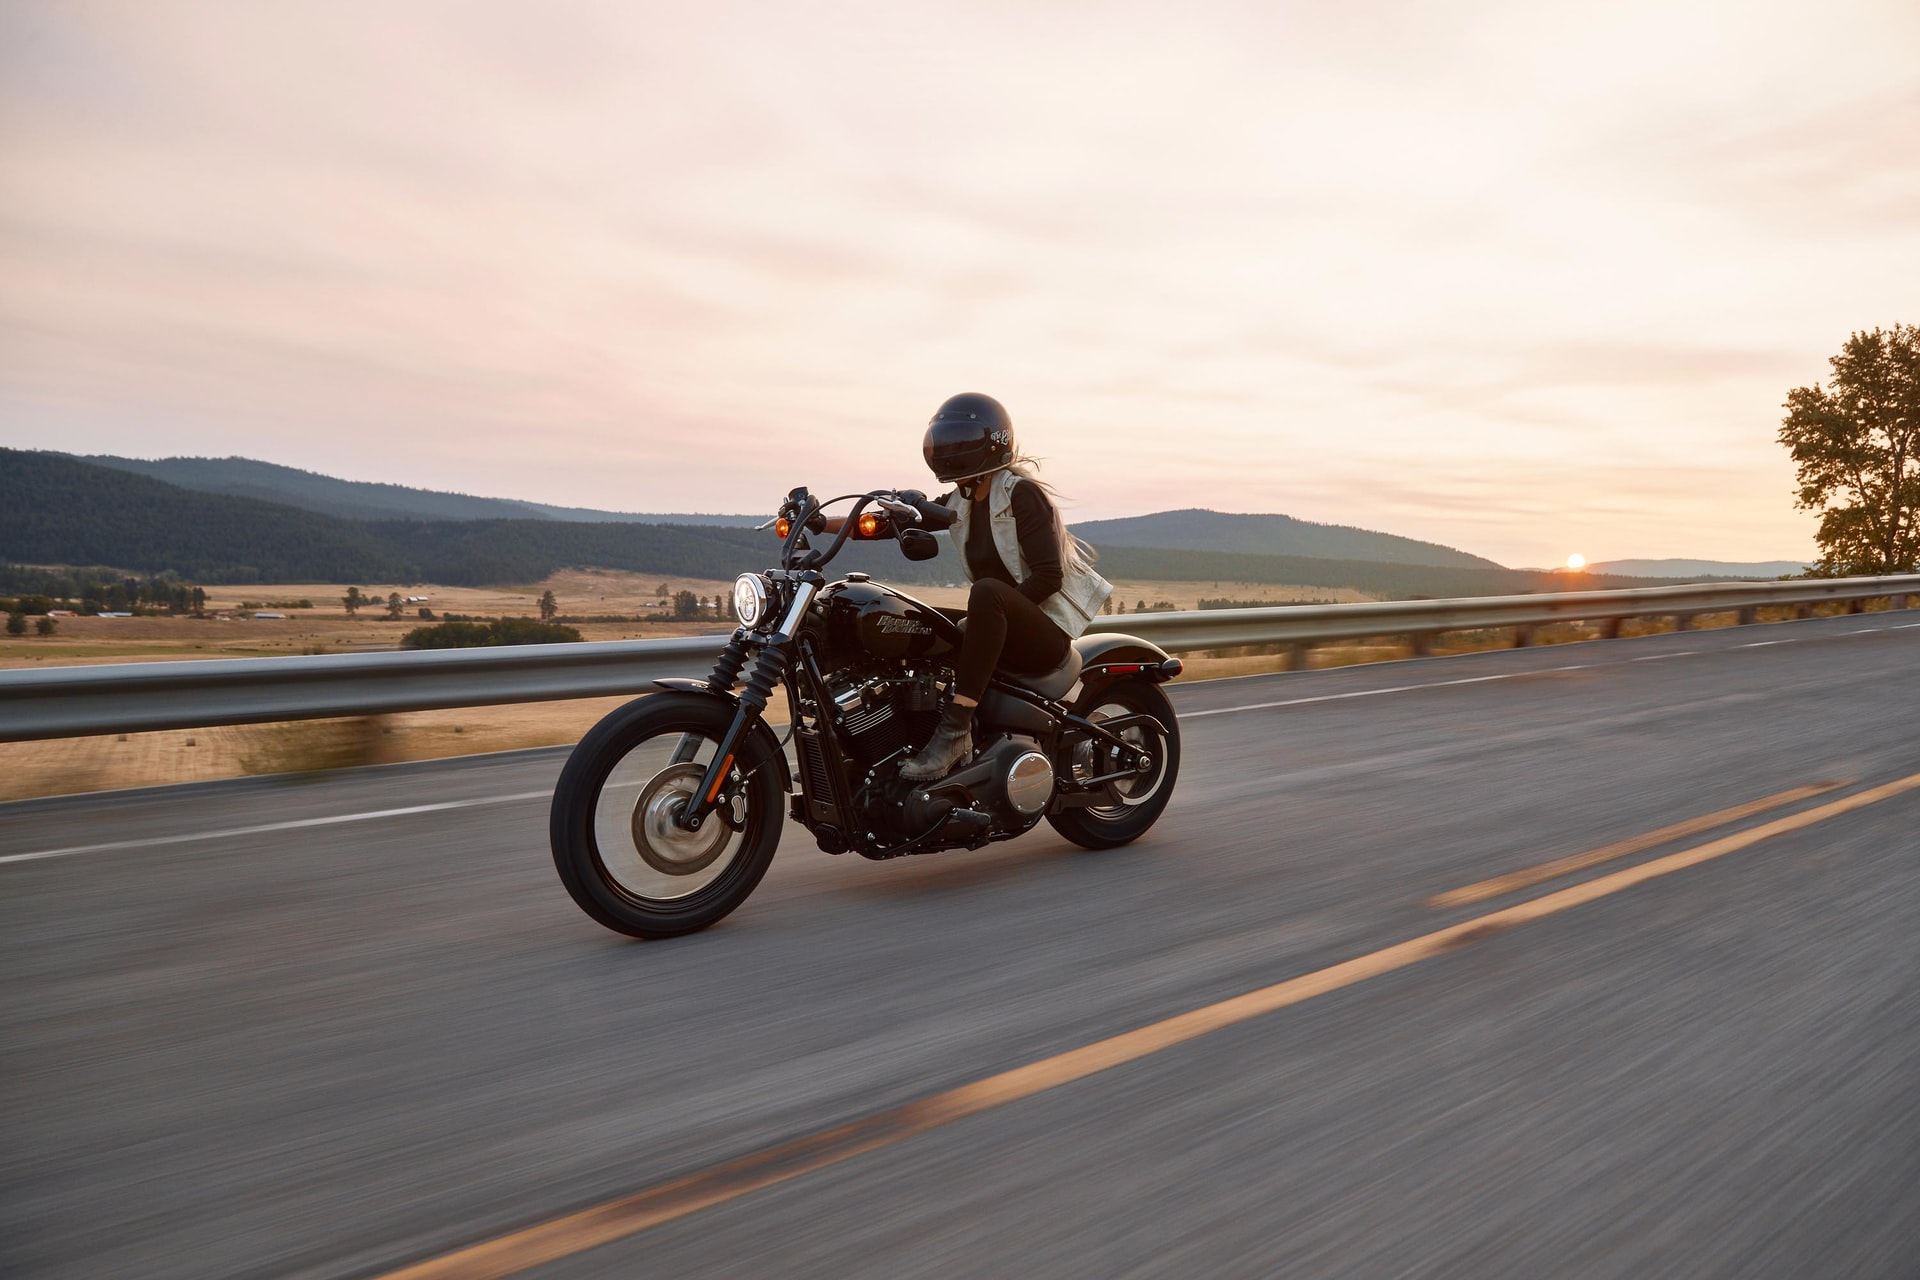
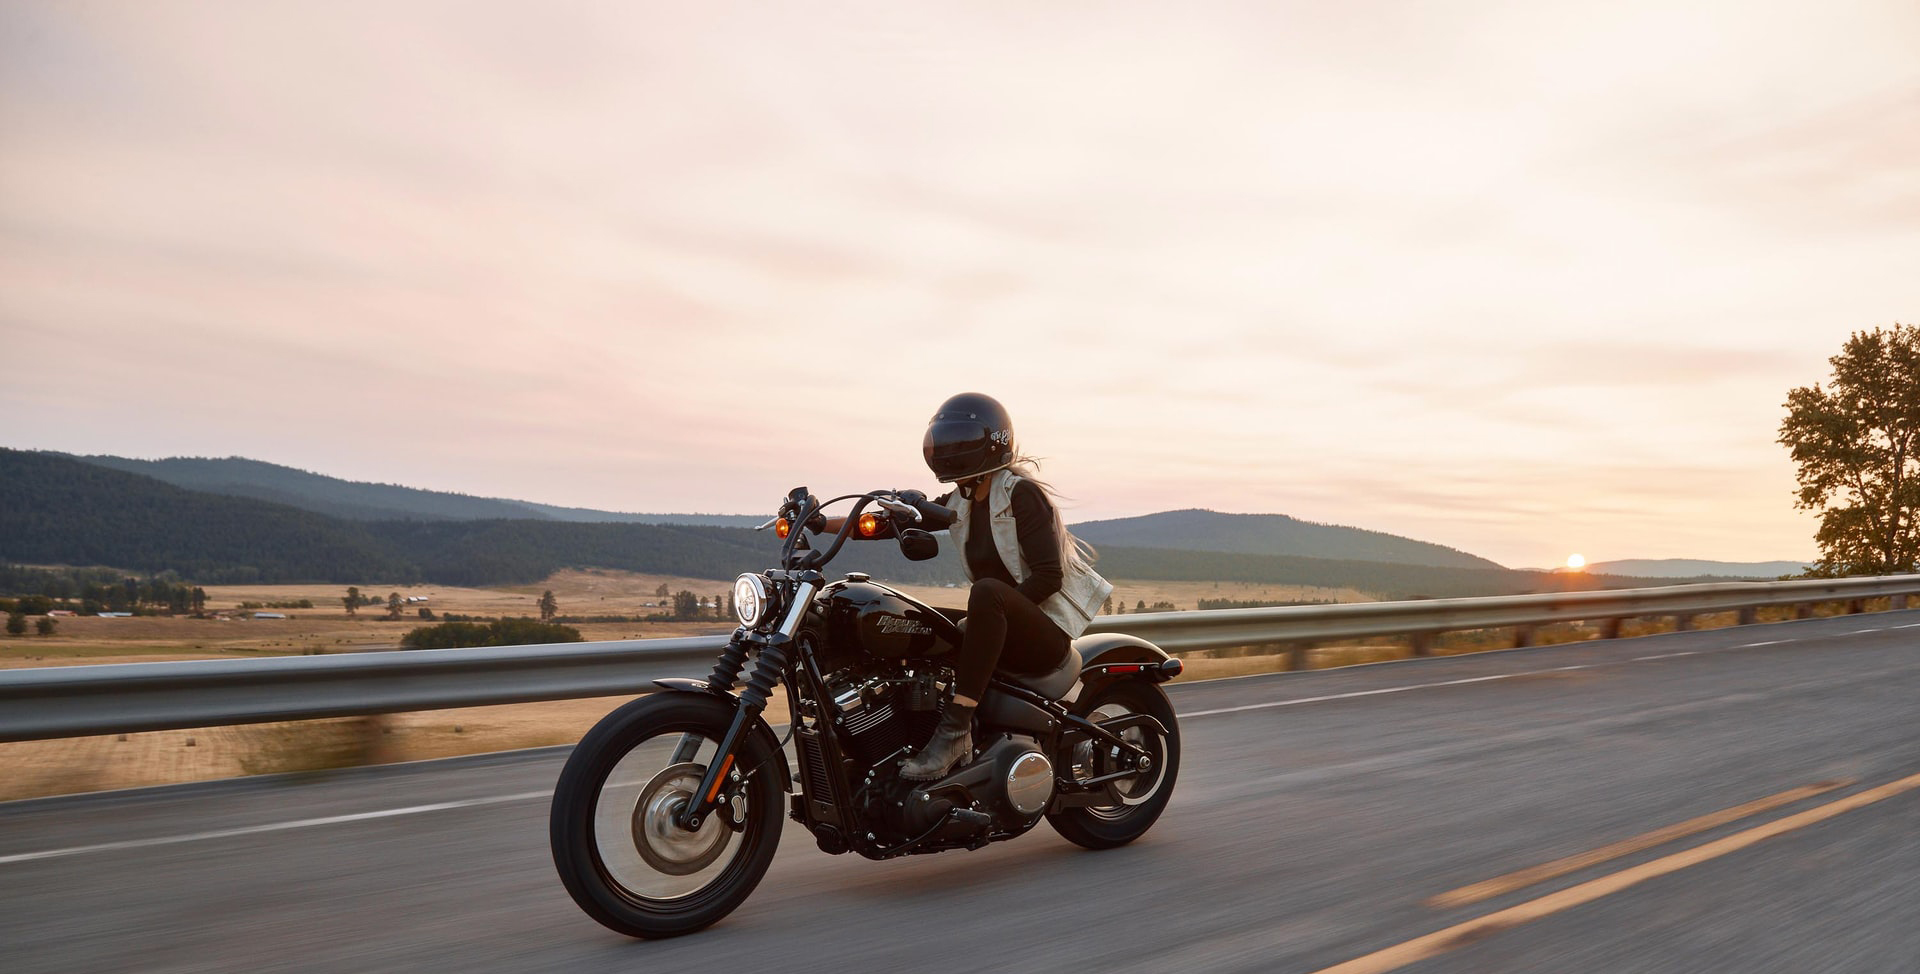
animation on auth

diff --git a/src/components/auth/AuthPage.js b/src/components/auth/AuthPage.js
@@ -5,6 +5,7 @@ import Signup from "./Signup";
 import Login from "./Login";
 import ForgotPassword from "./ForgotPassword";
 import Home from "./Home";
+import { CSSTransition, TransitionGroup } from "react-transition-group";
 
 import { useAuth } from "../../contexts/AuthContext";
 
@@ -26,22 +27,34 @@ export default function HomePage() {
       ) : (
         <>
           <div className="authPage__background"></div>
-          {/* <div className="authPage__content"> */}
-          <Switch>
-            <Route exact path={path}>
-              <Home />
-            </Route>
-            <Route path={`${path}/signup`}>
-              <Signup />
-            </Route>
-            <Route path={`${path}/login`}>
-              <Login />
-            </Route>
-            <Route path={`${path}/forgot-password`}>
-              <ForgotPassword />
-            </Route>
-          </Switch>
-          {/* </div> */}
+          <div className="authPage__content">
+            <Route
+              render={({ location }) => (
+                <TransitionGroup>
+                  <CSSTransition
+                    key={location.key}
+                    timeout={800}
+                    classNames="fade"
+                  >
+                    <Switch location={location}>
+                      <Route exact path={path}>
+                        <Home />
+                      </Route>
+                      <Route path={`${path}/signup`}>
+                        <Signup />
+                      </Route>
+                      <Route path={`${path}/login`}>
+                        <Login />
+                      </Route>
+                      <Route path={`${path}/forgot-password`}>
+                        <ForgotPassword />
+                      </Route>
+                    </Switch>
+                  </CSSTransition>
+                </TransitionGroup>
+              )}
+            />
+          </div>
         </>
       )}
     </>

diff --git a/src/components/auth/AuthPage.scss b/src/components/auth/AuthPage.scss
@@ -4,7 +4,7 @@
 .authPage {
   &__background {
     height: 100vh;
-    background: url(../../assets/images/homePage_background2.jpg) no-repeat
+    background: url(../../assets/images/homePage_background.jpg) no-repeat
       center center fixed;
     @include mixins.background-size(cover);
     @include mixins.flexbox;
@@ -28,19 +28,54 @@
       border: none;
       border-radius: unset;
     }
+
+    .view {
+      @include mixins.flexbox;
+      @include mixins.flex-direction(column);
+      @include mixins.justify-content(center);
+      height: 100vh;
+      align-items: center;
+      position: absolute;
+      overflow: hidden;
+      top: 0;
+      width: 100vw;
+      left: 0;
+      z-index: 1;
+
+      &__content {
+        width: 400px;
+
+        .card {
+          border: none;
+          border-radius: unset;
+        }
+      }
+
+      @media only screen and (max-width: 400px) {
+        &__content {
+          width: 100%;
+        }
+      }
+    }
   }
 }
 
-.auth {
-  &__login {
-    width: 400px;
-    top: calc(100vh - 50%);
-    transform: translateY(-193px);
-  }
+.fade-appear,
+.fade-enter .animate {
+  transform: translateY(100vh);
+  z-index: 1;
+}
+.fade-appear-active,
+.fade-enter.fade-enter-active .animate {
+  transform: none;
+  transition: transform 400ms ease-out 400ms;
+}
 
-  @media only screen and (max-width: 400px) {
-    &__login {
-      width: 100%;
-    }
-  }
+.fade-exit .animate {
+  opacity: 1;
+}
+
+.fade-exit.fade-exit-active .animate {
+  transform: translateY(-100vh);
+  transition: transform 400ms ease-in;
 }

diff --git a/src/components/auth/Home.js b/src/components/auth/Home.js
@@ -4,24 +4,26 @@ import { Link } from "react-router-dom";
 
 export default function Home() {
   return (
-    <div className="auth">
-      <div className="auth__title" data-testid="title">
-        <span>Ride.</span>
-        <span>Collect.</span>
-        <span>Repeat.</span>
+    <div className="animate view home">
+      <div className="animate home__content">
+        <div className="home__title" data-testid="title">
+          <span>Ride.</span>
+          <span>Collect.</span>
+          <span>Repeat.</span>
+        </div>
+        <nav className="home__buttonBox">
+          <Link to="/auth/login" className="home__button" data-testid="login">
+            Login
+          </Link>
+          <Link
+            to="/auth/signup"
+            className="home__button home__button--primary"
+            data-testid="signup"
+          >
+            Signup
+          </Link>
+        </nav>
       </div>
-      <nav className="auth__buttonBox">
-        <Link to="/auth/login" className="auth__button" data-testid="login">
-          Login
-        </Link>
-        <Link
-          to="/auth/signup"
-          className="auth__button auth__button--primary"
-          data-testid="signup"
-        >
-          Signup
-        </Link>
-      </nav>
     </div>
   );
 }

diff --git a/src/components/auth/Home.scss b/src/components/auth/Home.scss
@@ -1,24 +1,6 @@
 @use "styles/colors";
 @use "styles/mixins";
 
-.auth {
-  @include mixins.flexbox;
-  @include mixins.flex-direction(column);
-  position: absolute;
-  width: 100vw;
-  top: 0;
-  left: 0;
-  z-index: 1;
-  background: rgb(255, 255, 255);
-  background: linear-gradient(
-    0deg,
-    rgba(255, 255, 255, 0) 0%,
-    rgba(255, 255, 255, 1) 2%
-  );
-
-  padding: 0 1.4em;
-}
-
 @-webkit-keyframes showTextAnimation {
   0% {
     opacity: 0;
@@ -52,17 +34,22 @@
   }
 }
 
-.auth {
-  &__background {
-    height: 100vh;
-    background: url(../../assets/images/homePage_background2.jpg) no-repeat
-      center center fixed;
-    @include mixins.background-size(cover);
+.home {
+  &__content {
     @include mixins.flexbox;
     @include mixins.flex-direction(column);
-    align-items: center;
-    position: relative;
-    filter: blur(2px);
+    position: absolute;
+    width: 100vw;
+    top: 0;
+    left: 0;
+    z-index: 1;
+    background: rgb(255, 255, 255);
+    background: linear-gradient(
+      0deg,
+      rgba(255, 255, 255, 0) 0%,
+      rgba(255, 255, 255, 1) 2%
+    );
+    padding: 0 1.4em;
   }
 
   &__title {

diff --git a/src/components/auth/Signup.js b/src/components/auth/Signup.js
@@ -1,5 +1,4 @@
 import React, { useRef, useState } from "react";
-import "./Signup.scss";
 import { Card, Form, Button, Alert } from "react-bootstrap";
 import { useAuth } from "../../contexts/AuthContext";
 import { Link, useHistory } from "react-router-dom";
@@ -32,8 +31,8 @@ export default function Signup() {
   }
 
   return (
-    <div className="signup">
-      <div className="signup__content">
+    <div className="view">
+      <div className="animate view__content">
         <Card>
           <Card.Body>
             <h2 className="text-center mb-4">Sign up</h2>
@@ -60,8 +59,8 @@ export default function Signup() {
               </Button>
             </Form>
             <div className="w-100 text-center mt-4">
-          Do you have an account? <Link to="/auth/login">Log in</Link>
-        </div>
+              Do you have an account? <Link to="/auth/login">Log in</Link>
+            </div>
           </Card.Body>
         </Card>
       </div>

diff --git a/src/components/auth/ForgotPassword.js b/src/components/auth/ForgotPassword.js
@@ -1,5 +1,4 @@
 import React, { useRef, useState } from "react";
-import "./ForgotPassword.scss";
 import { Card, Form, Button, Alert } from "react-bootstrap";
 import { useAuth } from "../../contexts/AuthContext";
 import { Link, useHistory } from "react-router-dom";
@@ -31,8 +30,8 @@ export default function ForgotPassword() {
   }
 
   return (
-    <div className="forgotPassword">
-      <div className="forgotPassword__content">
+    <div className="view">
+      <div className="animate view__content">
         <Card>
           <Card.Body>
             <h2 className="text-center mb-4">Remind password</h2>

diff --git a/src/components/auth/Login.js b/src/components/auth/Login.js
@@ -1,5 +1,4 @@
 import React, { useRef, useState } from "react";
-import "./Login.scss";
 import { Card, Form, Button, Alert } from "react-bootstrap";
 import { useAuth } from "../../contexts/AuthContext";
 import { Link, useHistory } from "react-router-dom";
@@ -27,8 +26,8 @@ export default function Login() {
   }
 
   return (
-    <div className="login">
-      <div className="login__content">
+    <div className="view">
+      <div className="animate view__content">
         <Card>
           <Card.Body>
             <h2 className="text-center mb-4">Log in</h2>

diff --git a/src/components/App.js b/src/components/App.js
@@ -1,13 +1,9 @@
 import React from "react";
 import "./App.scss";
-import Signup from "./auth/Signup";
-import { Container } from "react-bootstrap";
 import AuthProvider from "../contexts/AuthContext";
 import { BrowserRouter as Router, Switch, Route, Redirect } from "react-router-dom";
 import Dashboard from "./dashboard/Dashboard";
-import Login from "./auth/Login";
 import PrivateRoute from "./auth/PrivateRoute";
-import ForgotPassword from "./auth/ForgotPassword";
 import AuthPage from "./auth/AuthPage";
 
 function App() {
